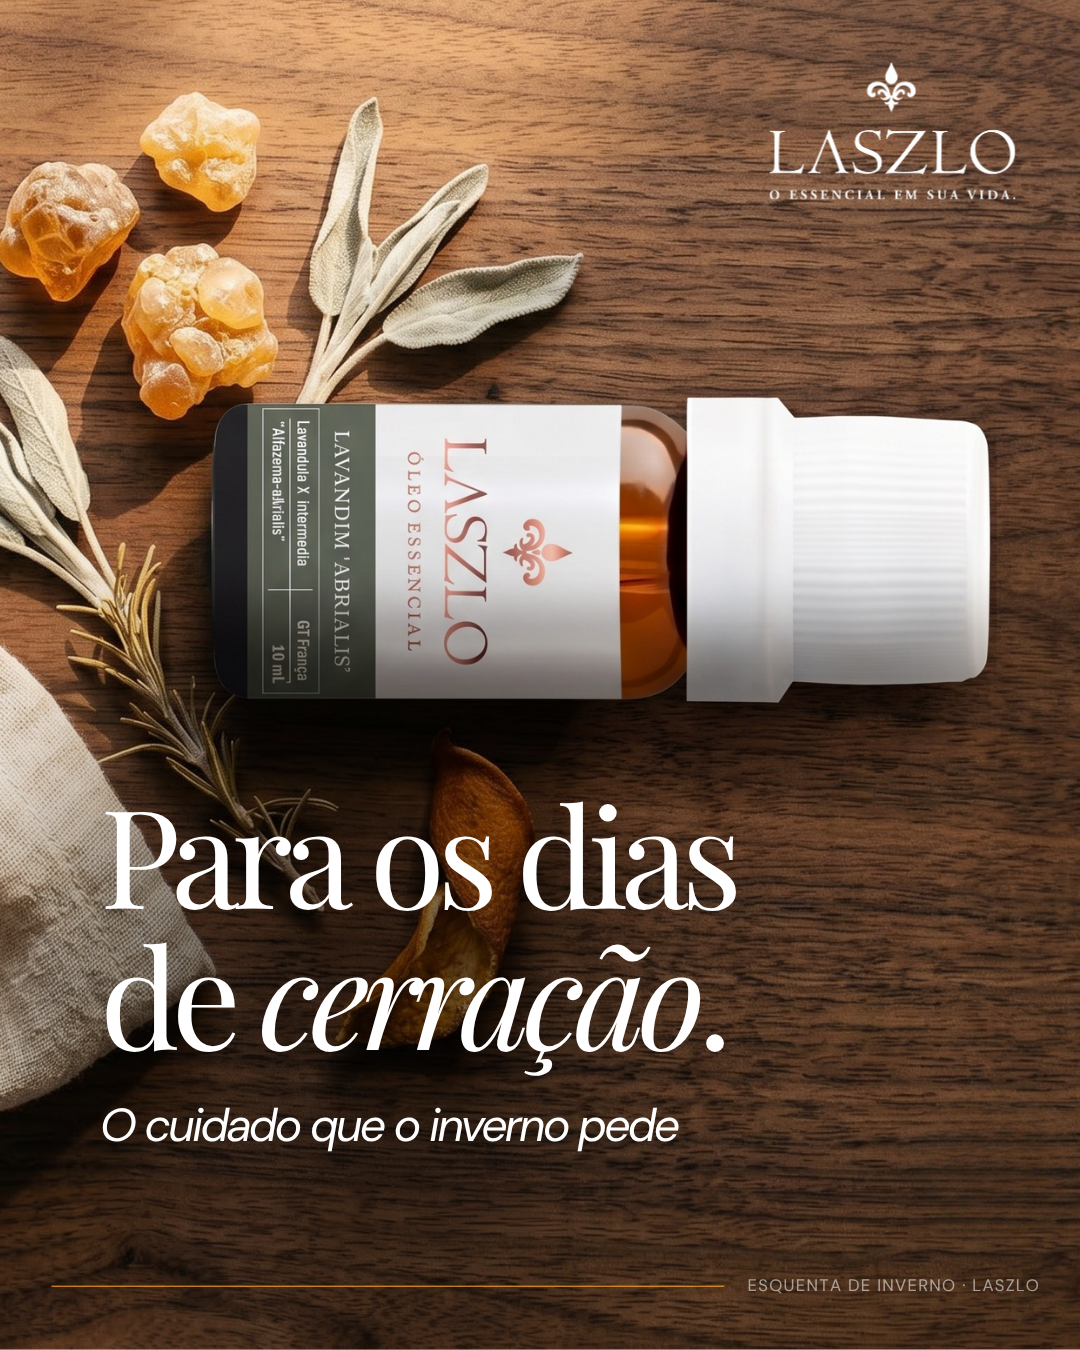
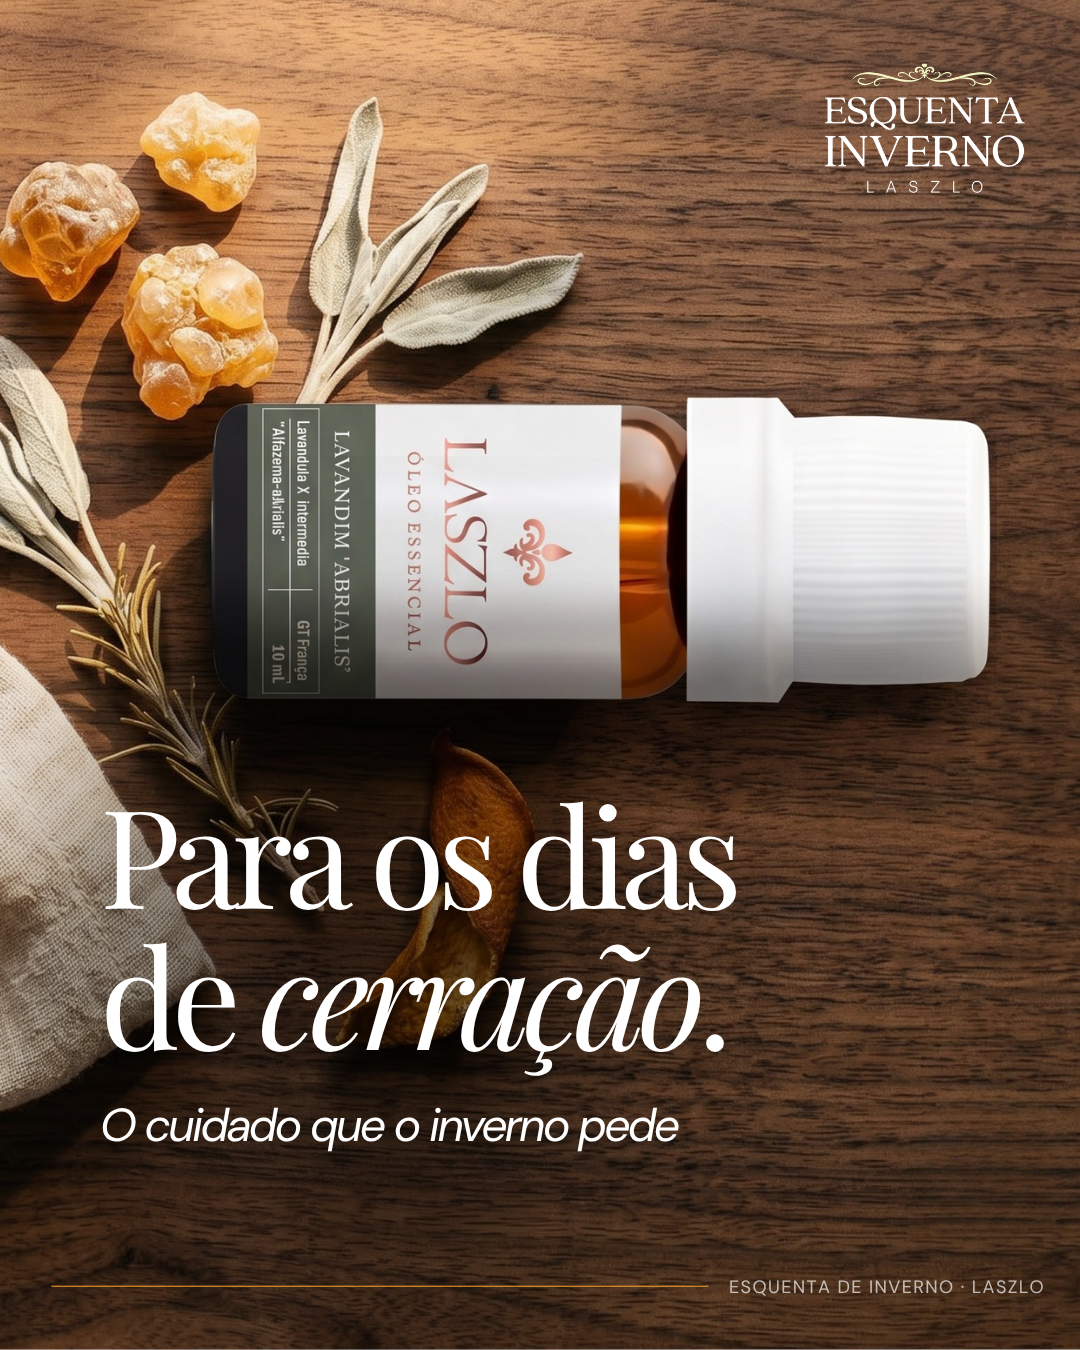
Add slide Logotipo da campanha e atualiza imagens
- Novo slide 05: Logotipo da Campanha com versoes clara e escura
- Specs por logo (cor + fundos permitidos + aplicacao)
- Regras de uso no rodape (area de protecao, vedado, tamanho minimo)
- Renumeracao: Vapor 05 to 06, Posts 06 to 07, Reels 07 to 08
- Adiciona logo clara.png e Logo escura.png
- Atualiza imagens dos posts (FEED/1-6) e capas de reels (REELS/7-9)

Changed region(s): [[0.7028, 0.0311, 0.9472, 0.1556], [0.6722, 0.9333, 0.8861, 0.9644], [0.9167, 0.9333, 0.9472, 0.9644]]

diff --git a/index.html b/index.html
@@ -403,7 +403,130 @@
 </section>
 
 <!-- ============================================================ -->
-<!-- SLIDE 05 — VAPOR DE ESSÊNCIA -->
+<!-- SLIDE 05 — LOGOTIPO DA CAMPANHA -->
+<!-- ============================================================ -->
+<section class="slide" style="background:#F4EDE0;color:#3D2B1A;">
+
+  <div style="position:absolute;top:80px;left:64px;display:flex;align-items:center;gap:40px;">
+    <div class="logo-laszlo" style="color:#3D2B1A;">LASZLO</div>
+    <div style="width:1px;height:28px;background:#3D2B1A;opacity:0.25;"></div>
+    <div class="label" style="color:#3D2B1A;opacity:0.65;">Logotipo da campanha</div>
+  </div>
+
+  <div style="position:absolute;left:120px;top:160px;max-width:1500px;">
+    <div class="label" style="color:#C07A2B;margin-bottom:18px;">05 · Logotipo</div>
+    <h2 class="h2-section" style="font-size:54px;color:#2E4A37;">Esquenta Inverno · LASZLO</h2>
+    <p class="body-text" style="font-size:15px;max-width:880px;margin-top:14px;opacity:0.78;">
+      Duas versões desenvolvidas para garantir contraste e legibilidade em qualquer aplicação — sobre fundos claros e escuros.
+    </p>
+  </div>
+
+  <!-- Grid de logos: versão clara e versão escura -->
+  <div style="position:absolute;left:120px;top:360px;display:grid;grid-template-columns:840px 840px;gap:40px;">
+
+    <!-- ============ LOGO ESCURA (para fundos claros) ============ -->
+    <div style="position:relative;">
+      <!-- Header do card -->
+      <div style="display:flex;align-items:center;justify-content:space-between;margin-bottom:14px;border-bottom:1px solid #C8C3BB;padding-bottom:10px;">
+        <div class="label" style="color:#C07A2B;">Versão principal · Fundos claros</div>
+        <div class="label" style="opacity:0.55;">PNG · SVG</div>
+      </div>
+
+      <!-- Display da logo -->
+      <div style="background:#F4EDE0;border:1px solid #C8C3BB;border-radius:8px;padding:36px 56px;display:flex;align-items:center;justify-content:center;height:340px;">
+        <img src="Logo escura.png" alt="Logotipo Esquenta Inverno LASZLO — versão escura sobre fundo claro" style="max-width:100%;max-height:260px;width:auto;height:auto;display:block;">
+      </div>
+
+      <!-- Specs em linha única -->
+      <div style="margin-top:14px;display:flex;align-items:flex-start;gap:32px;">
+        <div style="flex:0 0 auto;">
+          <div class="label" style="opacity:0.55;margin-bottom:6px;">Cor</div>
+          <div style="display:flex;align-items:center;gap:8px;">
+            <div style="width:14px;height:14px;background:#2E4A37;border-radius:3px;flex-shrink:0;"></div>
+            <div class="sans" style="font-size:12px;font-weight:500;color:#3D2B1A;">Verde Musgo · <span style="opacity:0.65;">#2E4A37</span></div>
+          </div>
+        </div>
+        <div style="flex:1;">
+          <div class="label" style="opacity:0.55;margin-bottom:6px;">Fundos permitidos</div>
+          <div class="sans" style="font-size:12px;font-weight:500;color:#3D2B1A;">Creme Aromático · Branco Quente</div>
+        </div>
+        <div style="flex:1;">
+          <div class="label" style="opacity:0.55;margin-bottom:6px;">Aplicação</div>
+          <div class="sans" style="font-size:12px;font-weight:500;color:#3D2B1A;">E-mails · Impressos · Cards claros</div>
+        </div>
+      </div>
+    </div>
+
+    <!-- ============ LOGO CLARA (para fundos escuros) ============ -->
+    <div style="position:relative;">
+      <!-- Header do card -->
+      <div style="display:flex;align-items:center;justify-content:space-between;margin-bottom:14px;border-bottom:1px solid #C8C3BB;padding-bottom:10px;">
+        <div class="label" style="color:#C07A2B;">Versão alternativa · Fundos escuros</div>
+        <div class="label" style="opacity:0.55;">PNG · SVG</div>
+      </div>
+
+      <!-- Display da logo com vapor de essência sutil -->
+      <div style="position:relative;background:linear-gradient(150deg,#2E4A37 0%,#1B2E22 100%);border-radius:8px;padding:36px 56px;display:flex;align-items:center;justify-content:center;height:340px;overflow:hidden;">
+        <svg viewBox="0 0 840 340" preserveAspectRatio="none" style="position:absolute;inset:0;width:100%;height:100%;pointer-events:none;">
+          <g stroke="#FAF7F2" fill="none" stroke-linecap="round">
+            <path d="M-40,320 Q160,240 320,260 T640,180 T900,130" stroke-width="0.9" stroke-opacity="0.10"/>
+            <path d="M-40,290 Q180,210 340,230 T680,150 T900,100" stroke-width="0.7" stroke-opacity="0.08"/>
+            <path d="M-40,260 Q200,180 360,200 T720,120 T900,70" stroke-width="0.5" stroke-opacity="0.06"/>
+          </g>
+        </svg>
+        <img src="logo clara.png" alt="Logotipo Esquenta Inverno LASZLO — versão clara sobre fundo escuro" style="position:relative;max-width:100%;max-height:260px;width:auto;height:auto;display:block;z-index:1;">
+      </div>
+
+      <!-- Specs em linha única -->
+      <div style="margin-top:14px;display:flex;align-items:flex-start;gap:32px;">
+        <div style="flex:0 0 auto;">
+          <div class="label" style="opacity:0.55;margin-bottom:6px;">Cor</div>
+          <div style="display:flex;align-items:center;gap:8px;">
+            <div style="width:14px;height:14px;background:#FAF7F2;border:1px solid #C8C3BB;border-radius:3px;flex-shrink:0;"></div>
+            <div class="sans" style="font-size:12px;font-weight:500;color:#3D2B1A;">Branco Quente · <span style="opacity:0.65;">#FAF7F2</span></div>
+          </div>
+        </div>
+        <div style="flex:1;">
+          <div class="label" style="opacity:0.55;margin-bottom:6px;">Fundos permitidos</div>
+          <div class="sans" style="font-size:12px;font-weight:500;color:#3D2B1A;">Verde Musgo · Terra Copaíba</div>
+        </div>
+        <div style="flex:1;">
+          <div class="label" style="opacity:0.55;margin-bottom:6px;">Aplicação</div>
+          <div class="sans" style="font-size:12px;font-weight:500;color:#3D2B1A;">Banners · Reels · Stories escuros</div>
+        </div>
+      </div>
+    </div>
+
+  </div>
+
+  <!-- Regras de uso -->
+  <div style="position:absolute;left:120px;bottom:110px;right:120px;display:grid;grid-template-columns:1fr 1fr 1fr;gap:48px;border-top:1px solid #C8C3BB;padding-top:20px;">
+    <div>
+      <div class="label" style="color:#C07A2B;margin-bottom:8px;">Área de proteção</div>
+      <p class="body-text" style="font-size:13px;line-height:1.55;opacity:0.78;">
+        Manter mínimo equivalente à altura da letra "L" em todos os lados.
+      </p>
+    </div>
+    <div>
+      <div class="label" style="color:#C07A2B;margin-bottom:8px;">Vedado</div>
+      <p class="body-text" style="font-size:13px;line-height:1.55;opacity:0.78;">
+        Distorcer, rotacionar ou aplicar opacidade abaixo de 70%. Não usar em Âmbar Resina.
+      </p>
+    </div>
+    <div>
+      <div class="label" style="color:#C07A2B;margin-bottom:8px;">Tamanho mínimo</div>
+      <p class="body-text" style="font-size:13px;line-height:1.55;opacity:0.78;">
+        Digital: 180px de largura. Impresso: 32mm de largura.
+      </p>
+    </div>
+  </div>
+
+  <div class="footer-meta">Esquenta de Inverno · LASZLO</div>
+  <div class="page-number">05 · Logotipo</div>
+</section>
+
+<!-- ============================================================ -->
+<!-- SLIDE 06 — VAPOR DE ESSÊNCIA -->
 <!-- ============================================================ -->
 <section class="slide" style="background:linear-gradient(150deg,#2E4A37 0%,#1B2E22 100%);color:#FAF7F2;">
 
@@ -429,7 +552,7 @@
   </div>
 
   <div style="position:absolute;left:120px;top:240px;width:880px;">
-    <div class="label" style="color:#C07A2B;margin-bottom:24px;">04 · Vapor de Essência</div>
+    <div class="label" style="color:#C07A2B;margin-bottom:24px;">06 · Vapor de Essência</div>
     <h1 class="h1-display" style="font-size:128px;line-height:0.95;color:#FAF7F2;">
       Vapor<br>
       <em style="font-style:italic;font-weight:400;">de Essência.</em>
@@ -468,7 +591,7 @@
   </div>
 
   <div class="footer-meta footer-meta--light">Esquenta de Inverno · LASZLO</div>
-  <div class="page-number page-number--light">05 · Vapor de Essência</div>
+  <div class="page-number page-number--light">06 · Vapor de Essência</div>
 </section>
 
 <!-- ============================================================ -->
@@ -500,7 +623,7 @@
   </div>
 
   <div class="footer-meta">Esquenta de Inverno · LASZLO</div>
-  <div class="page-number">06 · Posts</div>
+  <div class="page-number">07 · Posts</div>
 </section>
 
 <!-- ============================================================ -->
@@ -529,7 +652,7 @@
   </div>
 
   <div class="footer-meta">Esquenta de Inverno · LASZLO</div>
-  <div class="page-number">07 · Reels</div>
+  <div class="page-number">08 · Reels</div>
 </section>
 
 
@@ -585,6 +708,8 @@
   </div>
 
   <div class="page-number page-number--light" style="opacity:0.4;">09 · Fim</div>
+
+  <!-- (Numeração: 01 Capa · 02 Conceito · 03 Paleta · 04 Tipografia · 05 Logotipo · 06 Vapor · 07 Posts · 08 Reels · 09 Fim) -->
 </section>
 
 <script src="https://unpkg.com/@studio-freight/lenis@1.0.36/dist/lenis.min.js"></script>
